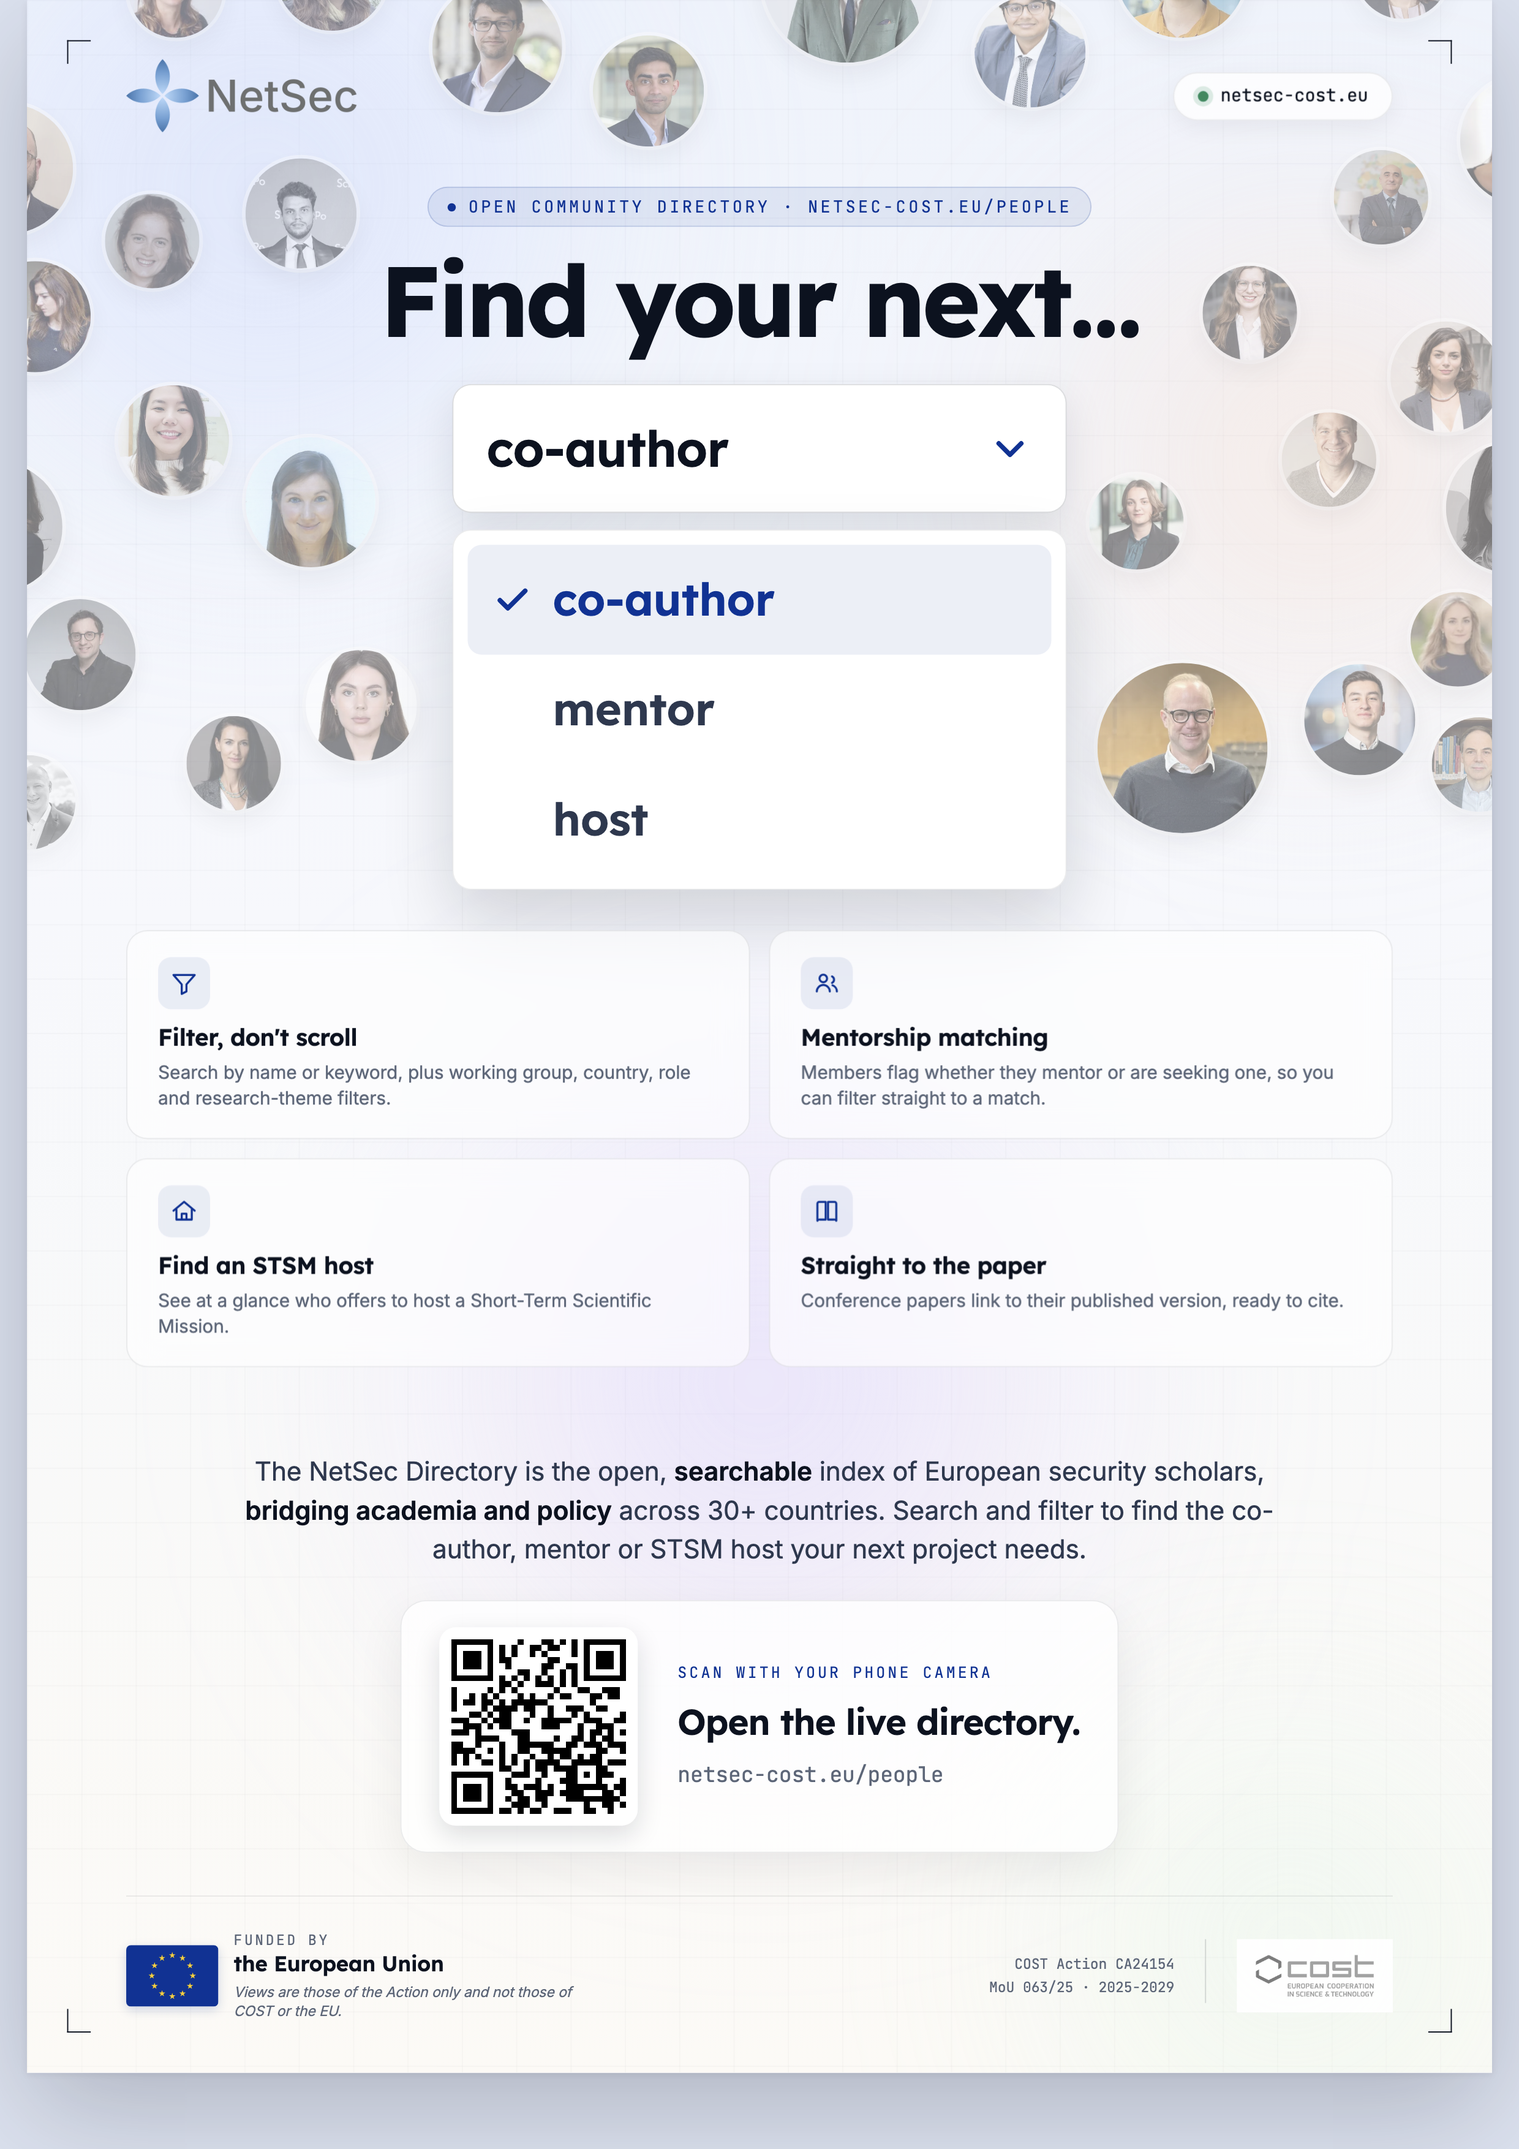
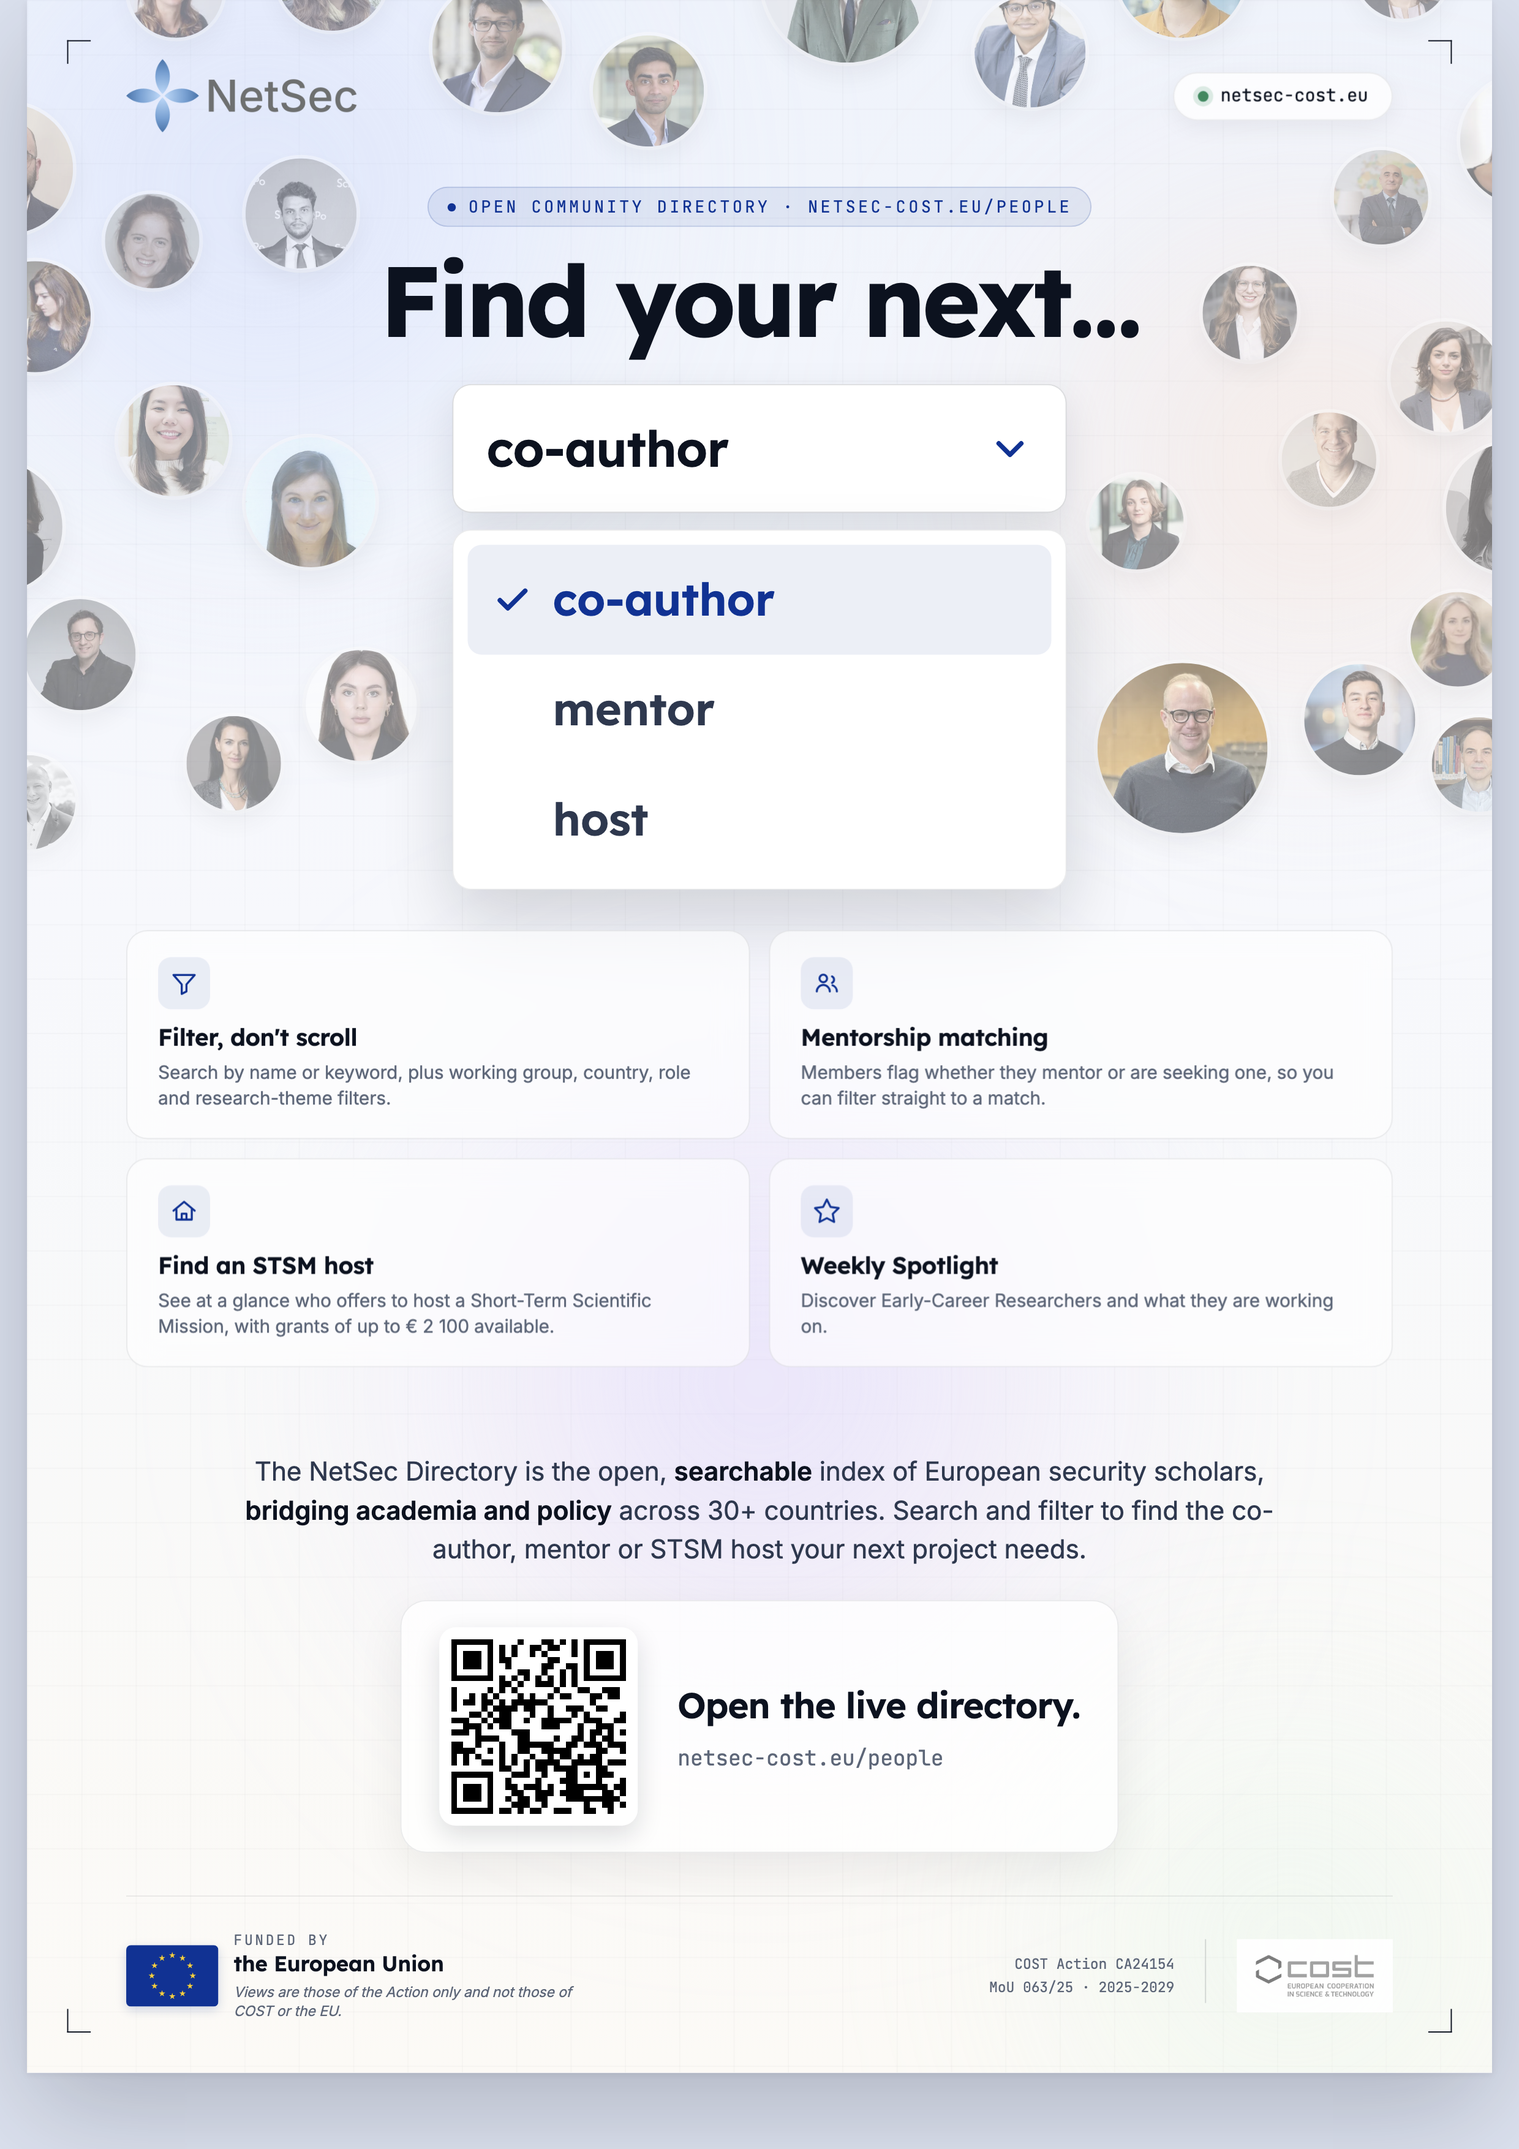
content(press-kit): poster copy — STSM grant, Weekly Spotlight card (#1124)
Directory-search poster text edits:
- the STSM tile now notes grants of up to €2 100
- the fourth tile becomes "Weekly Spotlight" with a star icon,
  "Discover Early-Career Researchers and what they are working on",
  replacing the conference-paper tile
- the "Scan with your phone camera" label is dropped from the QR band

Print PNG and small PNG/WebP re-rendered. The press-kit poster card
description and alt text are updated to the spotlight tile in all three
locales (hand-translated FR/DE), and the changelog tile list follows.

Changed region(s): [[0.4347, 0.7768, 0.7141, 0.8389], [0.5278, 0.5593, 0.8073, 0.6214], [0.8383, 0.5904, 0.8694, 0.6214]]

diff --git a/press-kit.fr.html b/press-kit.fr.html
@@ -328,12 +328,12 @@
 
     <div class="pk-poster">
       <a class="pk-preview" href="docs/pdf/poster-find-your-next.png" target="_blank" rel="noopener" aria-label="Ouvrir l'affiche de recherche dans l'annuaire NetSec en pleine résolution dans un nouvel onglet">
-        <picture><source type="image/webp" srcset="docs/promo/poster-find-your-next-card.webp"><img loading="lazy" decoding="async" src="docs/promo/poster-find-your-next-card.png" alt="Affiche de l'annuaire NetSec, « Find your next co-author, mentor or host. » Un sélecteur de rôle affichant co-author, mentor et host, quatre tuiles de fonctionnalités (filtrer l'annuaire, mise en relation pour le mentorat, trouver un hôte STSM, articles reliés à leur version publiée), un QR code qui ouvre l'annuaire sur netsec-cost.eu/people, et la déclaration de financement COST / UE."></picture>
+        <picture><source type="image/webp" srcset="docs/promo/poster-find-your-next-card.webp"><img loading="lazy" decoding="async" src="docs/promo/poster-find-your-next-card.png" alt="Affiche de l'annuaire NetSec, « Find your next co-author, mentor or host. » Un sélecteur de rôle affichant co-author, mentor et host, quatre tuiles de fonctionnalités (filtrer l'annuaire, mise en relation pour le mentorat, trouver un hôte STSM, une rubrique hebdomadaire sur les chercheur·euses en début de carrière), un QR code qui ouvre l'annuaire sur netsec-cost.eu/people, et la déclaration de financement COST / UE."></picture>
       </a>
       <div class="pk-meta glass" style="padding:18px 20px;border-radius:12px">
         <div>
           <h3>Affiche de recherche dans l'annuaire</h3>
-          <p style="margin:0">Une seconde lecture de l'annuaire, qui met en avant ce qu'il permet de faire : le titre « Find your next co-author, mentor or host », un sélecteur de rôle, quatre tuiles de fonctionnalités (filtrer l'annuaire, mise en relation pour le mentorat, trouver un hôte STSM, articles reliés à leur version publiée), un QR code qui ouvre l'annuaire sur <a href="https://netsec-cost.eu/people.html">netsec-cost.eu/people</a>, et le bandeau de financement COST / UE.</p>
+          <p style="margin:0">Une seconde lecture de l'annuaire, qui met en avant ce qu'il permet de faire : le titre « Find your next co-author, mentor or host », un sélecteur de rôle, quatre tuiles de fonctionnalités (filtrer l'annuaire, mise en relation pour le mentorat, trouver un hôte STSM, une rubrique hebdomadaire sur les chercheur·euses en début de carrière), un QR code qui ouvre l'annuaire sur <a href="https://netsec-cost.eu/people.html">netsec-cost.eu/people</a>, et le bandeau de financement COST / UE.</p>
         </div>
         <div class="pk-spec">
           <strong>Format</strong><span>A4 portrait (210 &times; 297 mm)</span>

diff --git a/press-kit.de.html b/press-kit.de.html
@@ -328,12 +328,12 @@
 
     <div class="pk-poster">
       <a class="pk-preview" href="docs/pdf/poster-find-your-next.png" target="_blank" rel="noopener" aria-label="Das NetSec-Verzeichnis-Suchplakat in voller Auflösung in neuem Tab öffnen">
-        <picture><source type="image/webp" srcset="docs/promo/poster-find-your-next-card.webp"><img loading="lazy" decoding="async" src="docs/promo/poster-find-your-next-card.png" alt="NetSec-Verzeichnis-Plakat, „Find your next co-author, mentor or host.“ Eine Rollenauswahl mit co-author, mentor und host, vier Funktionskacheln (Verzeichnis filtern, Mentoring-Matching, STSM-Gastgeber finden, Beiträge mit Verweis auf ihre veröffentlichte Fassung), ein QR-Code, der das Verzeichnis unter netsec-cost.eu/people öffnet, und der COST / EU-Förderhinweis."></picture>
+        <picture><source type="image/webp" srcset="docs/promo/poster-find-your-next-card.webp"><img loading="lazy" decoding="async" src="docs/promo/poster-find-your-next-card.png" alt="NetSec-Verzeichnis-Plakat, „Find your next co-author, mentor or host.“ Eine Rollenauswahl mit co-author, mentor und host, vier Funktionskacheln (Verzeichnis filtern, Mentoring-Matching, STSM-Gastgeber finden, ein wöchentliches Schlaglicht auf Nachwuchsforschende), ein QR-Code, der das Verzeichnis unter netsec-cost.eu/people öffnet, und der COST / EU-Förderhinweis."></picture>
       </a>
       <div class="pk-meta glass" style="padding:18px 20px;border-radius:12px">
         <div>
           <h3>Verzeichnis-Suchplakat</h3>
-          <p style="margin:0">Eine zweite Lesart des Verzeichnisses, die zeigt, was sich damit machen lässt: die Überschrift „Find your next co-author, mentor or host“, eine Rollenauswahl, vier Funktionskacheln (Verzeichnis filtern, Mentoring-Matching, STSM-Gastgeber finden, Beiträge mit Verweis auf ihre veröffentlichte Fassung), ein QR-Code, der das Verzeichnis unter <a href="https://netsec-cost.eu/people.html">netsec-cost.eu/people</a> öffnet, und der COST / EU-Förderhinweis-Streifen.</p>
+          <p style="margin:0">Eine zweite Lesart des Verzeichnisses, die zeigt, was sich damit machen lässt: die Überschrift „Find your next co-author, mentor or host“, eine Rollenauswahl, vier Funktionskacheln (Verzeichnis filtern, Mentoring-Matching, STSM-Gastgeber finden, ein wöchentliches Schlaglicht auf Nachwuchsforschende), ein QR-Code, der das Verzeichnis unter <a href="https://netsec-cost.eu/people.html">netsec-cost.eu/people</a> öffnet, und der COST / EU-Förderhinweis-Streifen.</p>
         </div>
         <div class="pk-spec">
           <strong>Format</strong><span>A4 Hochformat (210 &times; 297 mm)</span>

diff --git a/press-kit.html b/press-kit.html
@@ -329,12 +329,12 @@
 
     <div class="pk-poster">
       <a class="pk-preview" href="docs/pdf/poster-find-your-next.png" target="_blank" rel="noopener" aria-label="Open the full-resolution NetSec directory-search poster in a new tab">
-        <picture><source type="image/webp" srcset="docs/promo/poster-find-your-next-card.webp"><img loading="lazy" decoding="async" src="docs/promo/poster-find-your-next-card.png" alt="NetSec directory poster, 'Find your next co-author, mentor or host.' A role selector showing co-author, mentor and host, four capability tiles (filter the directory, mentorship matching, find an STSM host, papers that link to their published version), a QR code that opens the directory at netsec-cost.eu/people, and the COST / EU funding statement."></picture>
+        <picture><source type="image/webp" srcset="docs/promo/poster-find-your-next-card.webp"><img loading="lazy" decoding="async" src="docs/promo/poster-find-your-next-card.png" alt="NetSec directory poster, 'Find your next co-author, mentor or host.' A role selector showing co-author, mentor and host, four capability tiles (filter the directory, mentorship matching, find an STSM host, a weekly spotlight on early-career researchers), a QR code that opens the directory at netsec-cost.eu/people, and the COST / EU funding statement."></picture>
       </a>
       <div class="pk-meta glass" style="padding:18px 20px;border-radius:12px">
         <div>
           <h3>Directory-search poster</h3>
-          <p style="margin:0">A second take on the directory, this one selling what you can do with it: the headline "Find your next co-author, mentor or host", a role selector, four capability tiles (filter the directory, mentorship matching, find an STSM host, papers that link to their published version), a QR code that opens the directory at <a href="https://netsec-cost.eu/people.html">netsec-cost.eu/people</a>, and the COST / EU funding-statement strip.</p>
+          <p style="margin:0">A second take on the directory, this one selling what you can do with it: the headline "Find your next co-author, mentor or host", a role selector, four capability tiles (filter the directory, mentorship matching, find an STSM host, a weekly spotlight on early-career researchers), a QR code that opens the directory at <a href="https://netsec-cost.eu/people.html">netsec-cost.eu/people</a>, and the COST / EU funding-statement strip.</p>
         </div>
         <div class="pk-spec">
           <strong>Format</strong><span>A4 portrait (210 &times; 297 mm)</span>

diff --git a/docs/promo/poster-find-your-next.html b/docs/promo/poster-find-your-next.html
@@ -232,12 +232,12 @@ h1.title .l{display:block}
         <div class="value">
           <div class="ico"><svg viewBox="0 0 24 24"><path d="M3 11.5 12 4l9 7.5"></path><path d="M5.5 10.5V19h13v-8.5"></path><path d="M10 19v-5h4v5"></path></svg></div>
           <div class="vt">Find an STSM host</div>
-          <div class="vs">See at a glance who offers to host a Short-Term Scientific Mission.</div>
+          <div class="vs">See at a glance who offers to host a Short-Term Scientific Mission, with grants of up to €&nbsp;2&nbsp;100 available.</div>
         </div>
         <div class="value">
-          <div class="ico"><svg viewBox="0 0 24 24"><path d="M4 5.5A1.5 1.5 0 015.5 4H11v15H6a2 2 0 00-2 1z"></path><path d="M20 5.5A1.5 1.5 0 0018.5 4H13v15h5a2 2 0 012 1z"></path></svg></div>
-          <div class="vt">Straight to the paper</div>
-          <div class="vs">Conference papers link to their published version, ready to cite.</div>
+          <div class="ico"><svg viewBox="0 0 24 24"><polygon points="12 2 15.09 8.26 22 9.27 17 14.14 18.18 21.02 12 17.77 5.82 21.02 7 14.14 2 9.27 8.91 8.26 12 2"></polygon></svg></div>
+          <div class="vt">Weekly Spotlight</div>
+          <div class="vs">Discover Early-Career Researchers and what they are working on.</div>
         </div>
       </div>
 
@@ -246,7 +246,6 @@ h1.title .l{display:block}
       <div class="qr-band">
         <div class="qr-plate" id="qr-target" aria-label="QR code to the NetSec directory"></div>
         <div class="qr-side">
-          <div class="qr-lab">Scan with your phone camera</div>
           <div class="qr-h">Open the live directory.</div>
           <div class="qr-u">netsec-cost.eu/people</div>
         </div>

diff --git a/CHANGELOG.md b/CHANGELOG.md
@@ -123,7 +123,7 @@ maintainer-facing audience.
 ## [Unreleased]
 
 #### Added
-- A third press-kit poster, the directory-search poster (`docs/promo/poster-find-your-next.html`, A4 portrait), promotes what the Directory lets you do rather than recruiting bios. It reuses the "Find your next…" headline over the directory's role selector (co-author, mentor or host), four capability tiles (filter the directory, mentorship matching, find an STSM host, papers that link to their published version), and a QR code that opens the directory at `netsec-cost.eu/people`. The original "Add your bio" directory poster is unchanged. Listed on the press kit in all three locales with print-PNG and small-PNG downloads, hand-translated for FR and DE. Its background crowns the “Find your next…” headline with a soft band of member headshots, evenly spaced and kept clear of the logos and text, framing the headline and flanking the selector, fading down before the feature cards, to put real faces on the directory.
+- A third press-kit poster, the directory-search poster (`docs/promo/poster-find-your-next.html`, A4 portrait), promotes what the Directory lets you do rather than recruiting bios. It reuses the "Find your next…" headline over the directory's role selector (co-author, mentor or host), four capability tiles (filter the directory, mentorship matching, find an STSM host, a weekly spotlight on early-career researchers), and a QR code that opens the directory at `netsec-cost.eu/people`. The original "Add your bio" directory poster is unchanged. Listed on the press kit in all three locales with print-PNG and small-PNG downloads, hand-translated for FR and DE. Its background crowns the “Find your next…” headline with a soft band of member headshots, evenly spaced and kept clear of the logos and text, framing the headline and flanking the selector, fading down before the feature cards, to put real faces on the directory.
 - The News system gains a working archive and issue-driven publishing, bringing it to parity with the sister EISS site. The `/news` page (all three locales) now renders the full chronological list of items from `data/news.json` (each card deep-linkable at `#news-<id>`), where it was a static "archive is empty" placeholder; the home-page "Latest News" block now caps at four items and decays anything older than 18 months, so older items live on in the archive and the RSS feed. Labelling a GitHub issue `news` now publishes it: a workflow reads the issue (with optional `Type:`/`URL:`/`Date:` headers), prepends the item to `data/news.json`, regenerates the feed, and opens an auto-merging PR that closes the issue. Documented in `docs/news-publishing.md`.
 - The Training School page (`/summer-school.html`, all three locales) is rebuilt around editions rather than a single year. It now carries the COST-compliant name "NetSec Training School" (with the Early-Career Scholars Summer School / ECS³ as the subtitle), a forward-looking "next edition" module, and a "past editions" archive, both driven by a new `data/training-school.json` through a light renderer. The next-edition module shows the 2027 edition as "to be announced" with no calendar yet; when an edition is announced with a date, an Add-to-calendar affordance appears on its own. The 2026 archive entry carries the cohort, coordinators, topics, and a photo gallery from the Stockholm edition. The page links directly to EISS's Euro-SWAMOS page, Julia Carver (a Working Group participant) joins the directory so her faculty headshot resolves, and Nicolas Blarel's faculty card now carries his photo. Hand-translated for FR and DE.
 - An "In pictures" photo gallery on the archived ESSC 2026 page (all three locales), between the recap reel and the programme, so the past-conference page reads as a livelier record. The four photos are responsive and lazy-loaded. Training School signposting also improved across the site: a cross-link from the Grants page (the early-career audiences overlap), and the home news card and the visual sitemap now use the "Training School" name. Hand-translated for FR and DE.
